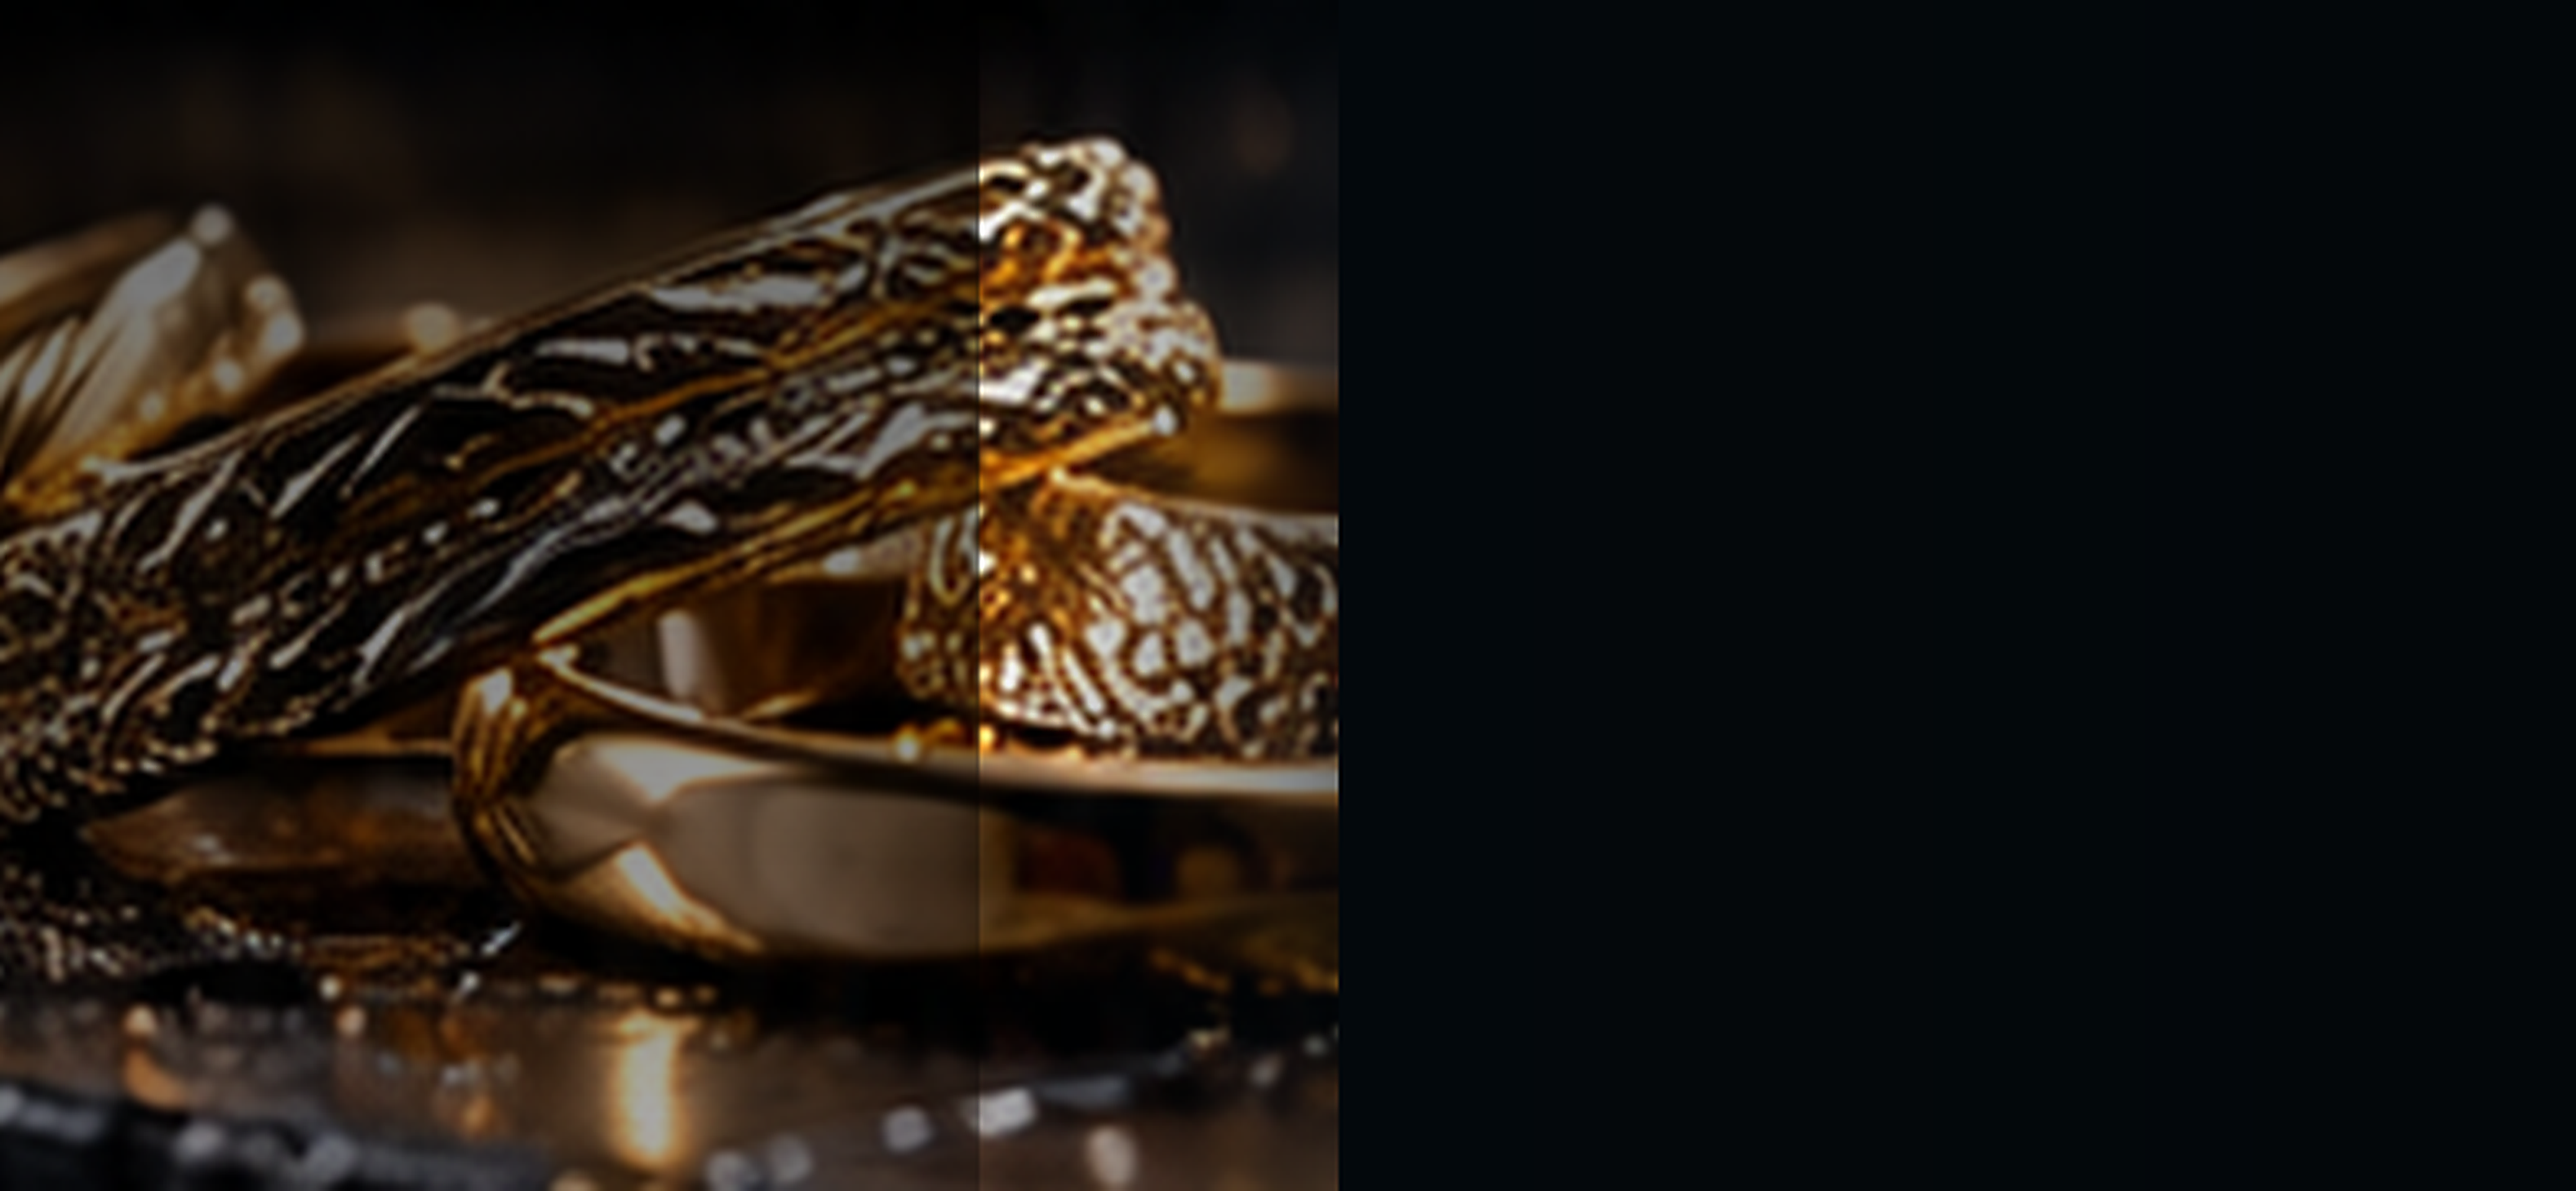
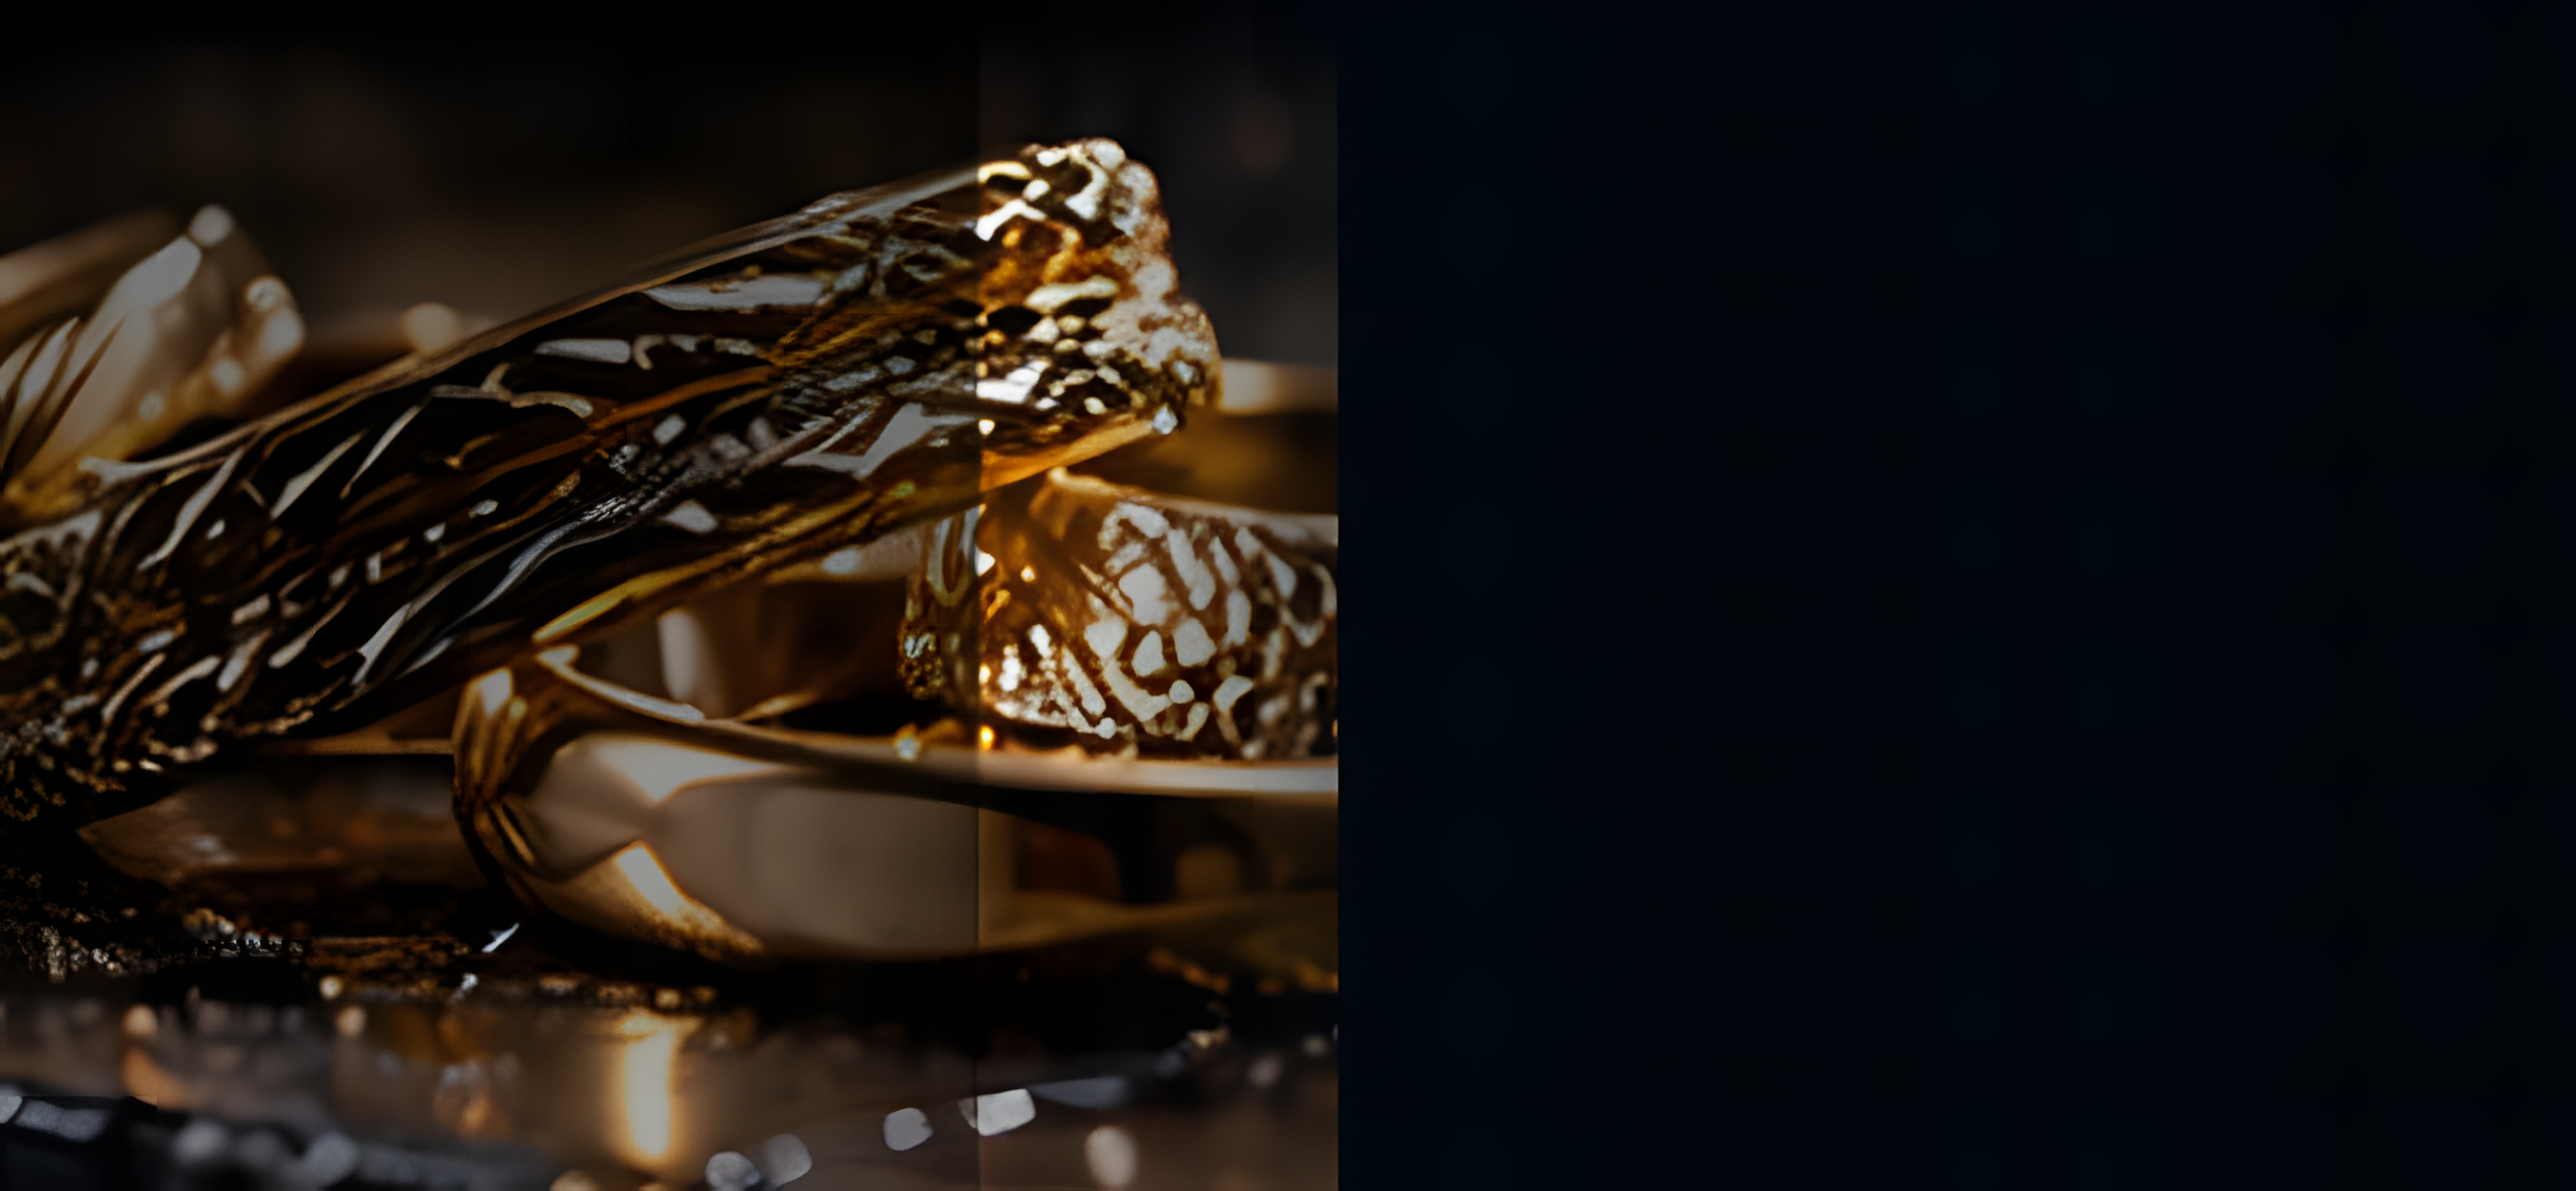
Audace Galvânica: imagens com super-resolução (Real-ESRGAN)
Os arquivos 4x do pacote eram a arte de 789 px ampliada. Hero, consultoria,
estratégia, CTA, anéis e etapas reconstruídos com Real-ESRGAN x4plus a partir
do tamanho real; originais preservados em images/originais/. Fundos em WebP
900w/1600w/3156w. Lighthouse mobile 99/100/100/100, desktop 100 em tudo.

Claude-Session: https://claude.ai/code/session_01ENtpLZqkvgXs8ZFVt6f4qf

diff --git a/audace-galvanica/index.html b/audace-galvanica/index.html
@@ -16,7 +16,7 @@
   <meta property="og:description" content="Consultoria especializada e soluções em banhos para semijoias. Entenda quais acabamentos fazem sentido para sua marca, suas peças e seu momento de negócio.">
   <link rel="preload" href="fonts/libre-baskerville-latin.woff2" as="font" type="font/woff2" crossorigin>
   <link rel="preload" href="fonts/manrope-latin.woff2" as="font" type="font/woff2" crossorigin>
-  <link rel="preload" as="image" type="image/webp" imagesrcset="images/backgrounds/section_01_hero_bg_clean_4x_1600w.webp 1600w, images/backgrounds/section_01_hero_bg_clean_4x_3156w.webp 3156w" imagesizes="100vw" fetchpriority="high">
+  <link rel="preload" as="image" type="image/webp" imagesrcset="images/backgrounds/section_01_hero_bg_clean_4x_900w.webp 900w, images/backgrounds/section_01_hero_bg_clean_4x_1600w.webp 1600w, images/backgrounds/section_01_hero_bg_clean_4x_3156w.webp 3156w" imagesizes="100vw" fetchpriority="high">
   <link rel="stylesheet" href="styles.css">
   <script type="application/ld+json">
   {
@@ -72,7 +72,7 @@
     <section class="section hero" id="hero" aria-labelledby="hero-title">
       <div class="section__bg">
         <picture>
-          <source type="image/webp" srcset="images/backgrounds/section_01_hero_bg_clean_4x_1600w.webp 1600w, images/backgrounds/section_01_hero_bg_clean_4x_3156w.webp 3156w" sizes="100vw">
+          <source type="image/webp" srcset="images/backgrounds/section_01_hero_bg_clean_4x_900w.webp 900w, images/backgrounds/section_01_hero_bg_clean_4x_1600w.webp 1600w, images/backgrounds/section_01_hero_bg_clean_4x_3156w.webp 3156w" sizes="100vw">
           <img src="images/backgrounds/section_01_hero_bg_clean_4x.png" alt="Corrente de semijoia com banho dourado sendo retirada do tanque galvânico" width="3156" height="1860" fetchpriority="high" decoding="async">
         </picture>
       </div>
@@ -106,7 +106,7 @@
     <section class="section consult" id="consultoria" aria-labelledby="consult-title">
       <div class="section__bg">
         <picture>
-          <source type="image/webp" srcset="images/backgrounds/section_02_consult_bg_clean_4x_1600w.webp 1600w, images/backgrounds/section_02_consult_bg_clean_4x_3156w.webp 3156w" sizes="100vw">
+          <source type="image/webp" srcset="images/backgrounds/section_02_consult_bg_clean_4x_900w.webp 900w, images/backgrounds/section_02_consult_bg_clean_4x_1600w.webp 1600w, images/backgrounds/section_02_consult_bg_clean_4x_3156w.webp 3156w" sizes="100vw">
           <img src="images/backgrounds/section_02_consult_bg_clean_4x.png" alt="Modelo usando brincos, anéis e corrente de semijoias douradas" width="3156" height="1260" loading="lazy" decoding="async">
         </picture>
       </div>
@@ -126,7 +126,7 @@
     <section class="section strategy" id="estrategia" aria-labelledby="strategy-title">
       <div class="section__bg">
         <picture>
-          <source type="image/webp" srcset="images/backgrounds/section_03_strategy_bg_clean_4x_1600w.webp 1600w, images/backgrounds/section_03_strategy_bg_clean_4x_3156w.webp 3156w" sizes="100vw">
+          <source type="image/webp" srcset="images/backgrounds/section_03_strategy_bg_clean_4x_900w.webp 900w, images/backgrounds/section_03_strategy_bg_clean_4x_1600w.webp 1600w, images/backgrounds/section_03_strategy_bg_clean_4x_3156w.webp 3156w" sizes="100vw">
           <img src="images/backgrounds/section_03_strategy_bg_clean_4x.png" alt="Anel de semijoia com banho dourado sendo inspecionado com pinça" width="3156" height="884" loading="lazy" decoding="async">
         </picture>
       </div>
@@ -150,7 +150,7 @@
     <section class="section benefits theme-light" id="diferenciais" aria-labelledby="benefits-title">
       <div class="section__bg" aria-hidden="true">
         <picture>
-          <source type="image/webp" srcset="images/backgrounds/section_04_benefits_bg_clean_4x_1600w.webp 1600w, images/backgrounds/section_04_benefits_bg_clean_4x_3156w.webp 3156w" sizes="100vw">
+          <source type="image/webp" srcset="images/backgrounds/section_04_benefits_bg_clean_4x_900w.webp 900w, images/backgrounds/section_04_benefits_bg_clean_4x_1600w.webp 1600w, images/backgrounds/section_04_benefits_bg_clean_4x_3156w.webp 3156w" sizes="100vw">
           <img src="images/backgrounds/section_04_benefits_bg_clean_4x.png" alt="" width="3156" height="896" loading="lazy" decoding="async">
         </picture>
       </div>
@@ -199,7 +199,7 @@
     <section class="section steps" id="como-funciona" aria-labelledby="steps-title">
       <div class="section__bg" aria-hidden="true">
         <picture>
-          <source type="image/webp" srcset="images/backgrounds/section_05_steps_bg_clean_4x_1600w.webp 1600w, images/backgrounds/section_05_steps_bg_clean_4x_3156w.webp 3156w" sizes="100vw">
+          <source type="image/webp" srcset="images/backgrounds/section_05_steps_bg_clean_4x_900w.webp 900w, images/backgrounds/section_05_steps_bg_clean_4x_1600w.webp 1600w, images/backgrounds/section_05_steps_bg_clean_4x_3156w.webp 3156w" sizes="100vw">
           <img src="images/backgrounds/section_05_steps_bg_clean_4x.png" alt="" width="3156" height="1120" loading="lazy" decoding="async">
         </picture>
       </div>
@@ -212,7 +212,7 @@
           <li class="step">
             <div class="step__visual">
               <span class="step__number" aria-hidden="true">01</span>
-              <figure class="step__media"><picture><source type="image/webp" srcset="images/photos/step_01_brand_sketch_4x.webp"><img src="images/photos/step_01_brand_sketch_4x.png" alt="Esboço de identidade de marca de semijoias sobre a mesa" width="1188" height="498" loading="lazy" decoding="async"></picture></figure>
+              <figure class="step__media"><picture><source type="image/webp" srcset="images/photos/step_01_brand_sketch_4x.webp"><img src="images/photos/step_01_brand_sketch_4x.png" alt="Esboço de identidade de marca de semijoias sobre a mesa" width="792" height="332" loading="lazy" decoding="async"></picture></figure>
             </div>
             <h3 class="step__title"><span class="visually-hidden">Etapa 1: </span>Entendemos<br class="br-d"> sua marca</h3>
             <p class="step__body">Conversamos sobre o seu<br class="br-d"> posicionamento, público,<br class="br-d"> estilo das peças e objetivos.</p>
@@ -220,7 +220,7 @@
           <li class="step">
             <div class="step__visual">
               <span class="step__number" aria-hidden="true">02</span>
-              <figure class="step__media"><picture><source type="image/webp" srcset="images/photos/step_02_chain_analysis_4x.webp"><img src="images/photos/step_02_chain_analysis_4x.png" alt="Análise técnica de uma corrente de semijoia" width="1302" height="468" loading="lazy" decoding="async"></picture></figure>
+              <figure class="step__media"><picture><source type="image/webp" srcset="images/photos/step_02_chain_analysis_4x.webp"><img src="images/photos/step_02_chain_analysis_4x.png" alt="Análise técnica de uma corrente de semijoia" width="868" height="312" loading="lazy" decoding="async"></picture></figure>
             </div>
             <h3 class="step__title"><span class="visually-hidden">Etapa 2: </span>Analisamos<br class="br-d"> o projeto</h3>
             <p class="step__body">Avaliamos suas peças,<br class="br-d"> sua operação e o momento<br class="br-d"> do seu negócio.</p>
@@ -228,7 +228,7 @@
           <li class="step">
             <div class="step__visual">
               <span class="step__number" aria-hidden="true">03</span>
-              <figure class="step__media"><picture><source type="image/webp" srcset="images/photos/step_03_ring_options_4x.webp"><img src="images/photos/step_03_ring_options_4x.png" alt="Opções de anéis com diferentes acabamentos de banho" width="1026" height="474" loading="lazy" decoding="async"></picture></figure>
+              <figure class="step__media"><picture><source type="image/webp" srcset="images/photos/step_03_ring_options_4x.webp"><img src="images/photos/step_03_ring_options_4x.png" alt="Opções de anéis com diferentes acabamentos de banho" width="684" height="316" loading="lazy" decoding="async"></picture></figure>
             </div>
             <h3 class="step__title"><span class="visually-hidden">Etapa 3: </span>Orientamos<br class="br-d"> sua decisão</h3>
             <p class="step__body">Indicamos as melhores<br class="br-d"> possibilidades de banho para<br class="br-d"> o seu projeto, com base técnica<br class="br-d"> e visão de mercado.</p>
@@ -241,7 +241,7 @@
     <section class="section cta-form" id="formulario" aria-labelledby="form-title">
       <div class="section__bg" aria-hidden="true">
         <picture>
-          <source type="image/webp" srcset="images/backgrounds/section_06_cta_form_bg_clean_4x_1600w.webp 1600w, images/backgrounds/section_06_cta_form_bg_clean_4x_3156w.webp 3156w" sizes="100vw">
+          <source type="image/webp" srcset="images/backgrounds/section_06_cta_form_bg_clean_4x_900w.webp 900w, images/backgrounds/section_06_cta_form_bg_clean_4x_1600w.webp 1600w, images/backgrounds/section_06_cta_form_bg_clean_4x_3156w.webp 3156w" sizes="100vw">
           <img src="images/backgrounds/section_06_cta_form_bg_clean_4x.png" alt="" width="3156" height="1460" loading="lazy" decoding="async">
         </picture>
       </div>
@@ -322,7 +322,7 @@
   <footer class="section site-footer" aria-label="Rodapé">
     <div class="section__bg" aria-hidden="true">
       <picture>
-          <source type="image/webp" srcset="images/backgrounds/section_07_footer_bg_clean_4x_1600w.webp 1600w, images/backgrounds/section_07_footer_bg_clean_4x_3156w.webp 3156w" sizes="100vw">
+          <source type="image/webp" srcset="images/backgrounds/section_07_footer_bg_clean_4x_900w.webp 900w, images/backgrounds/section_07_footer_bg_clean_4x_1600w.webp 1600w, images/backgrounds/section_07_footer_bg_clean_4x_3156w.webp 3156w" sizes="100vw">
           <img src="images/backgrounds/section_07_footer_bg_clean_4x.png" alt="" width="3156" height="496" loading="lazy" decoding="async">
         </picture>
     </div>

diff --git a/audace-galvanica/README.md b/audace-galvanica/README.md
@@ -43,6 +43,11 @@ icons/svg/      Ícones SVG fornecidos
   nem os overlays SVG: eles duplicariam a imagem. No mobile, o próprio fundo é recortado.
 - Todos os assets vêm do pacote oficial na Drive (fundos em 3156 px). A página serve WebP em 1600w/3156w
   (≈640 KB no total) com o PNG de nome oficial como fallback.
+- Nitidez (aprovado pelo cliente): os arquivos "4x" do pacote eram só a arte de 789 px ampliada (medido:
+  0,08/255 de detalhe a mais). Hero, consultoria, estratégia, CTA, anéis e etapas foram reconstruídos com
+  super-resolução Real-ESRGAN x4plus (ONNX, CPU), a partir do tamanho real de cada imagem. A IA recria
+  texturas finas; feições e composição não mudam. Os arquivos originais do pacote ficam em `images/originais/`.
+  Fundos servidos em WebP 900w/1600w/3156w.
 - CTA: o fundo `section_06` traz os anéis muito ampliados, com um corte vertical, atrás da frase. Um véu
   escuro em CSS garante a leitura e `cta_rings_4x` (recorte exato da arte, 390×164u) ocupa o canto inferior.
 - Logo, versão negativa: além da cor dos textos (opção B), a borda do símbolo teve a sobra do fundo branco
